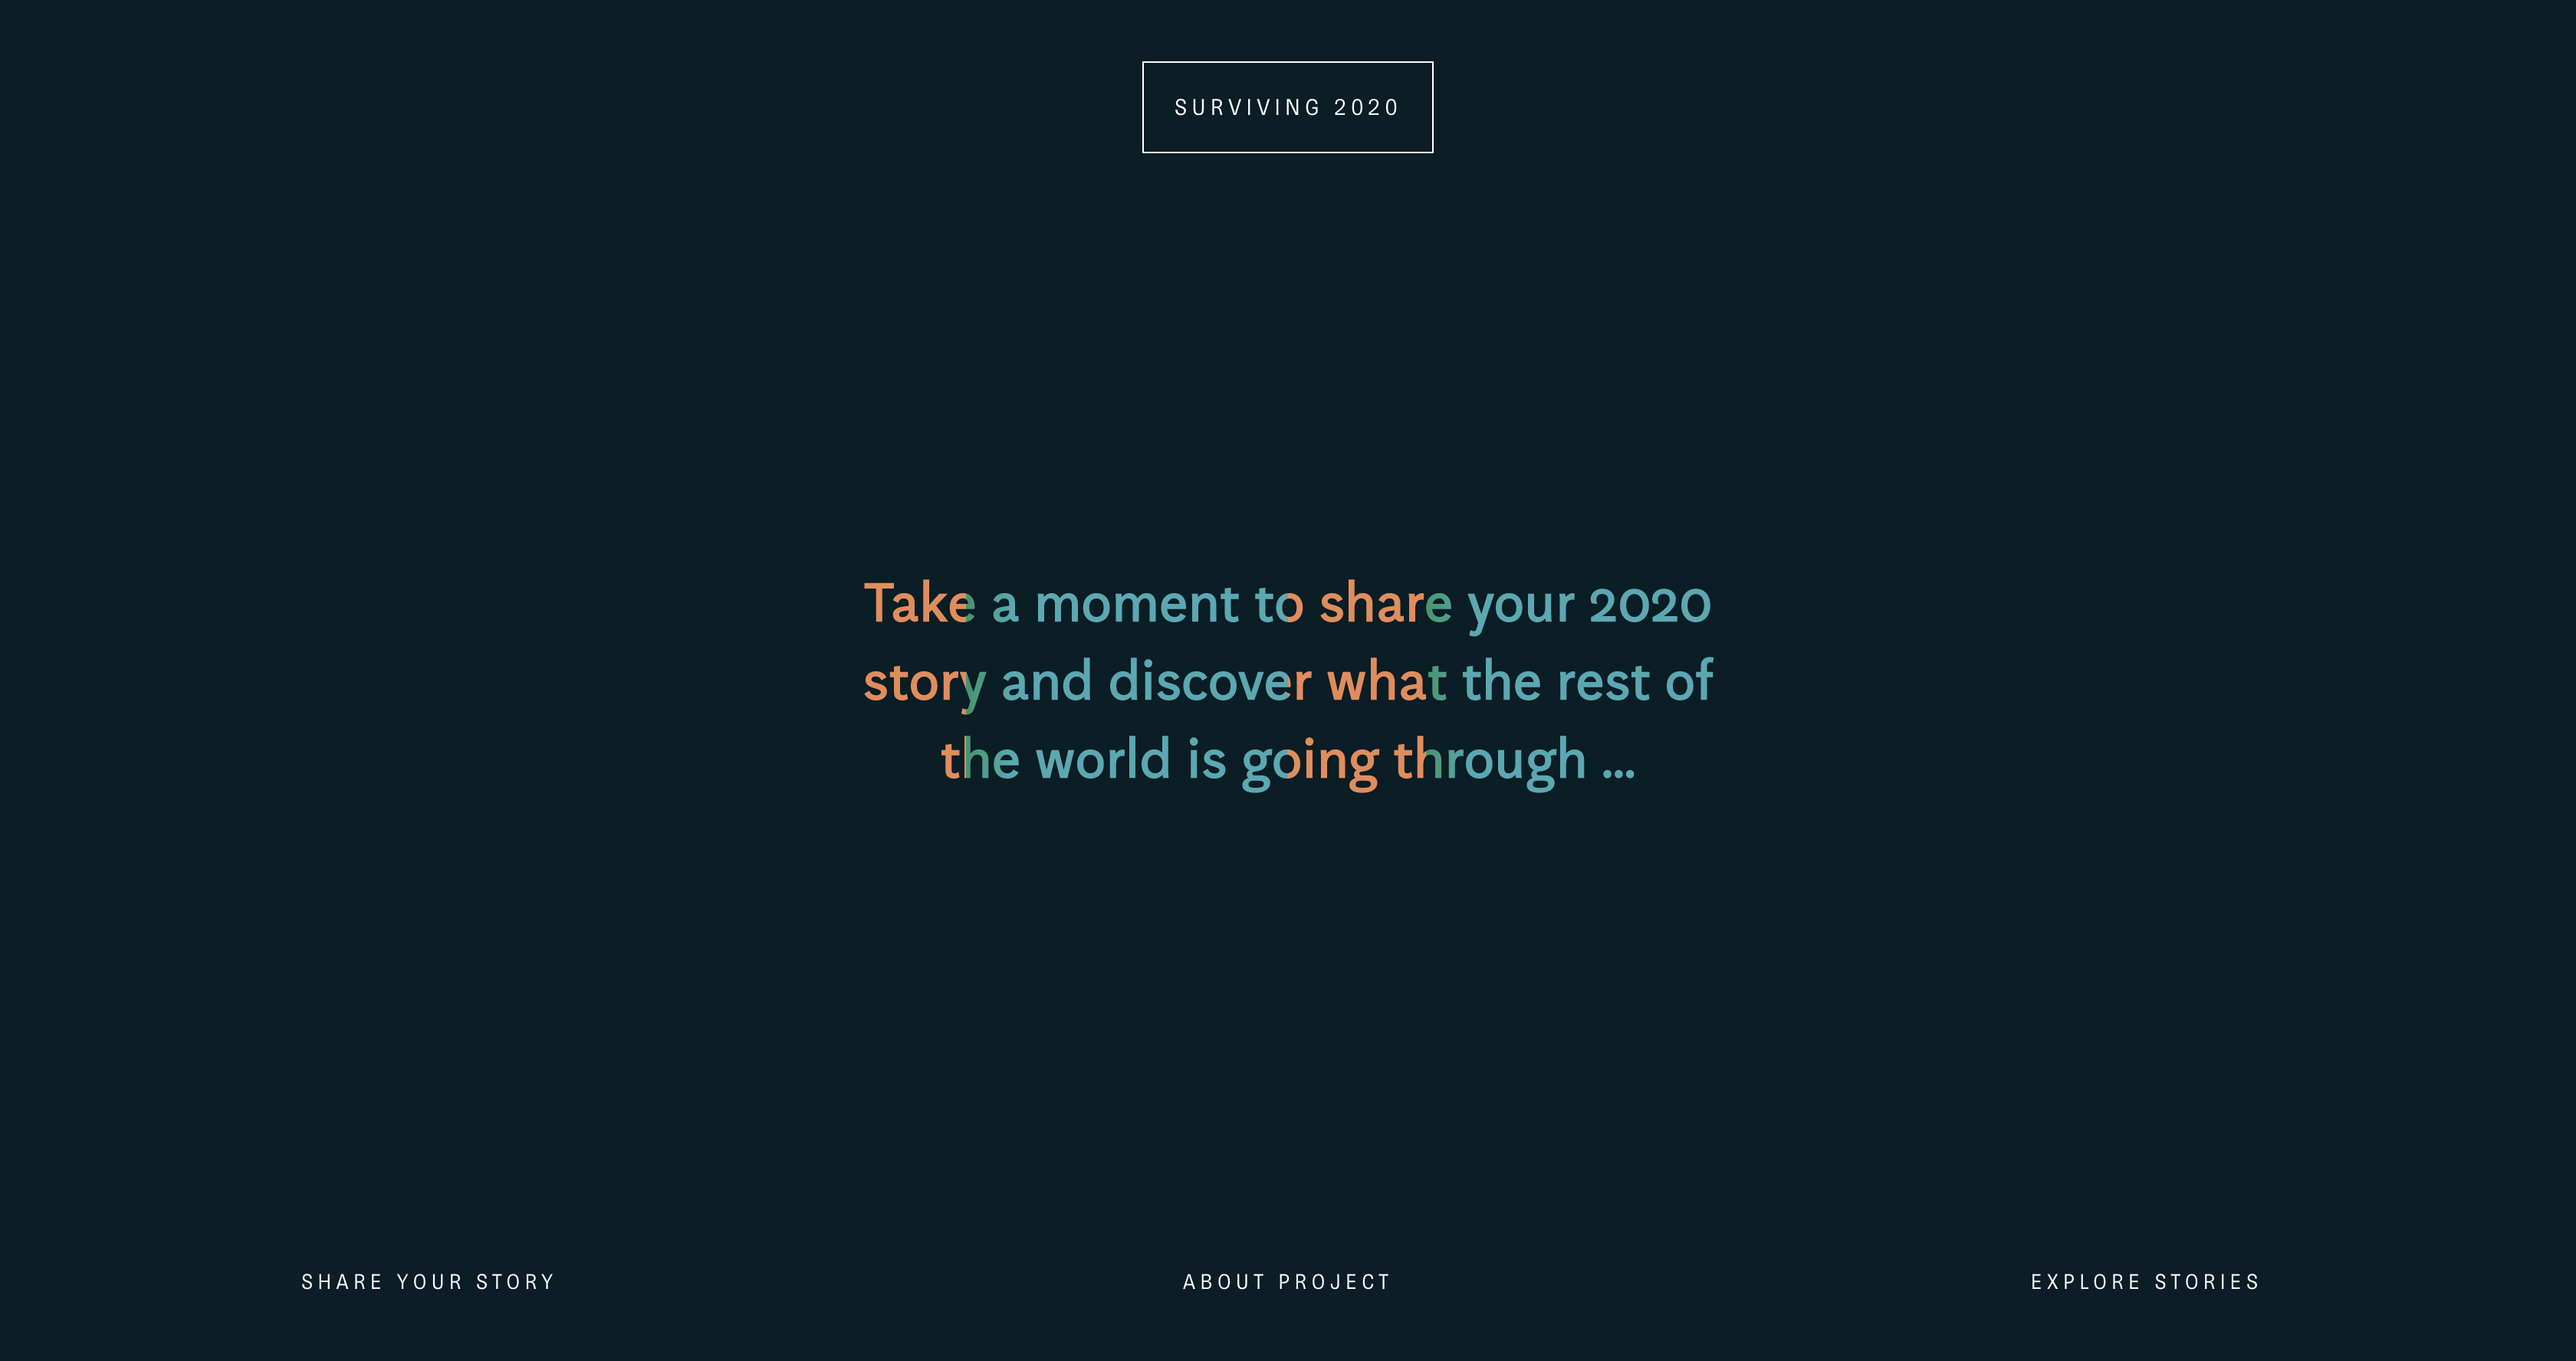
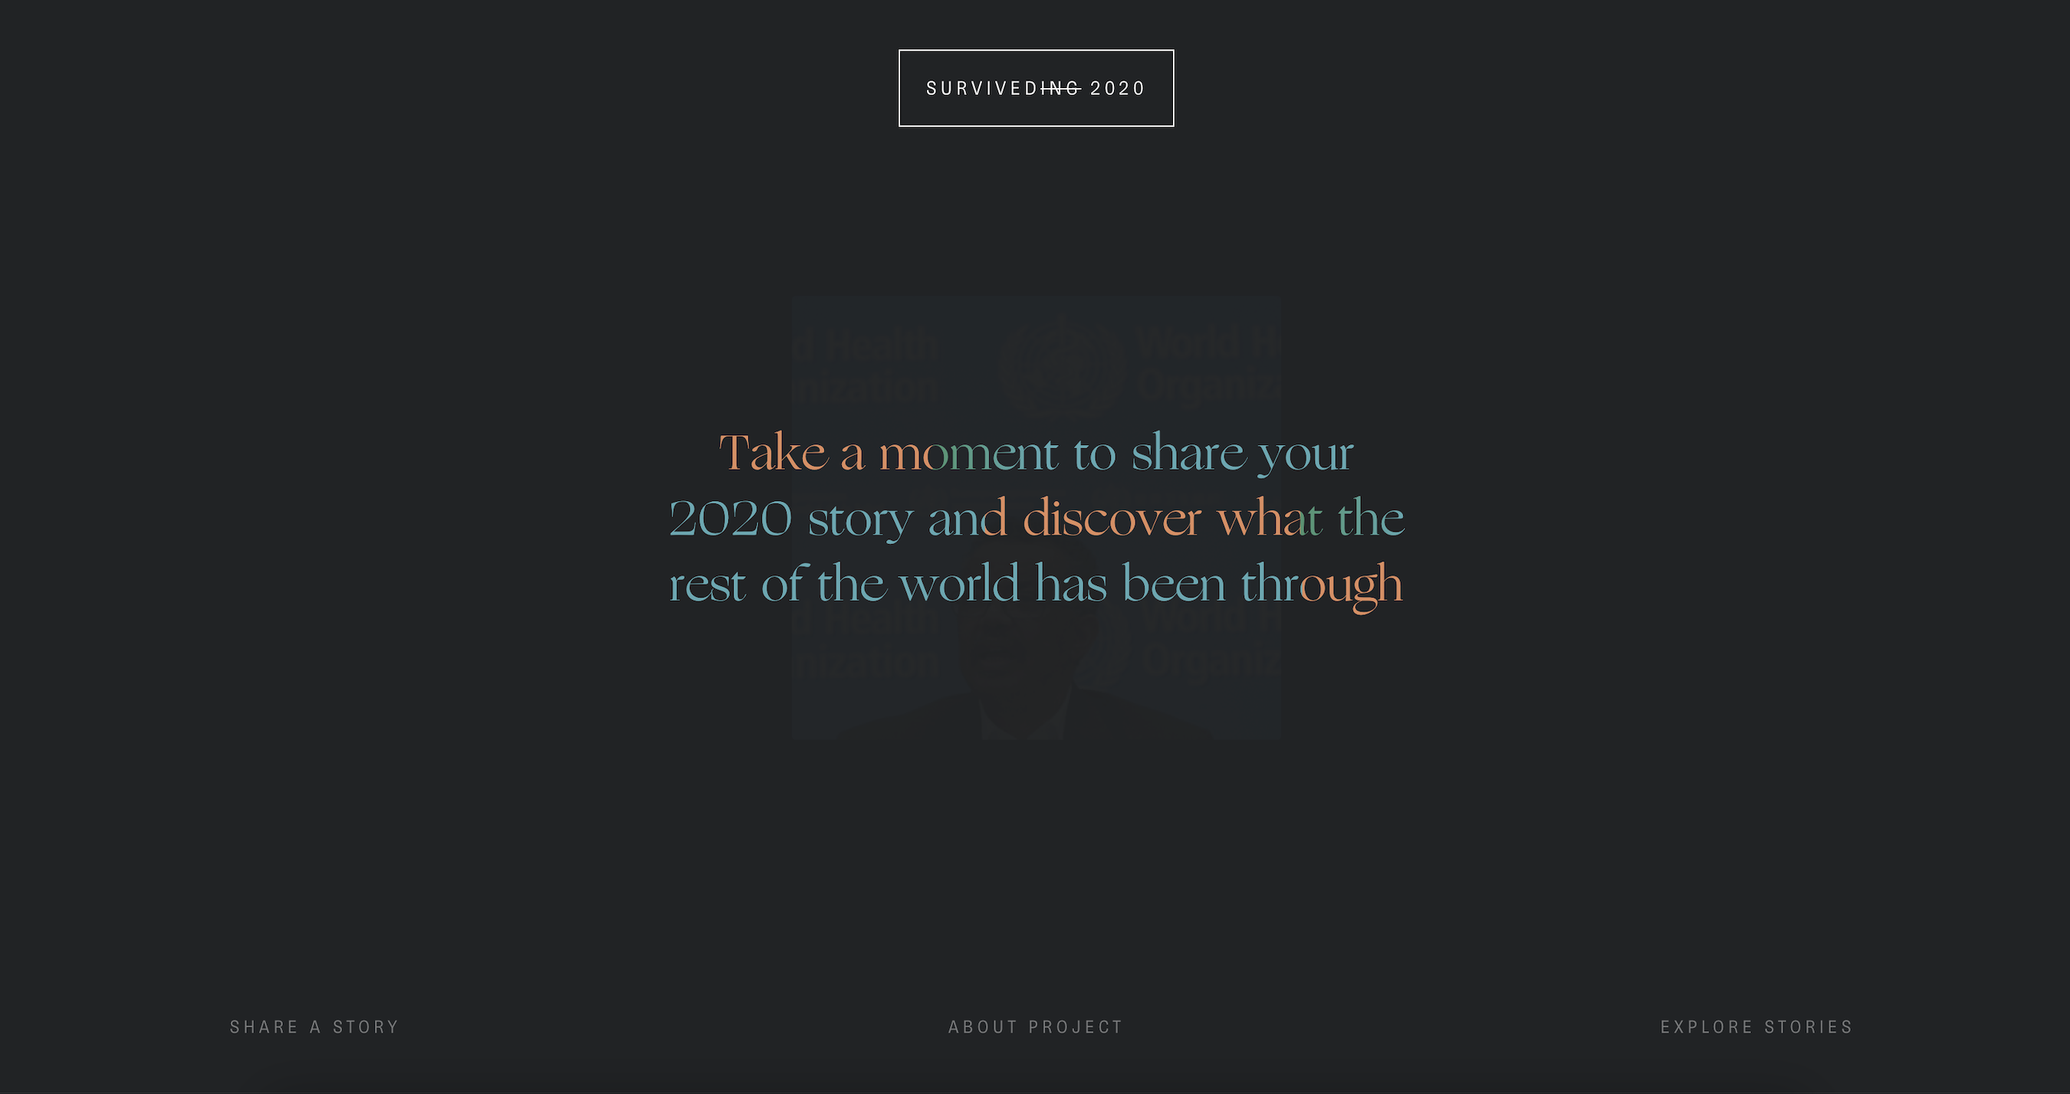
added to work

diff --git a/index.html b/index.html
@@ -59,11 +59,12 @@
                         <div class="interests">
                             <p class="u-sm-label">My Interests outside tech</p>
                             <p>Some of my favourite things are design, travel, food, and the discovery of new music.</p> <br>
-                            <p> In 2017, post-graduation, I decided to work on a project I'm extremely proud of today. I brought the first <a class="img-trigger" href="https://www.instagram.com/beforeidielagos/" target="_blank" rel="noreferrer noopener">Before I Die wall<img src="./img/the-wall.JPG" alt="" class="w-100 img-floating" /></a>                                to Lagos, Nigeria. It made me realise how passionate I am about connecting people and communities.</p>
+                            <p> In 2017, post-graduation, I decided to work on a project I'm extremely proud of today. I brought the first <a class="img-trigger" href="https://www.instagram.com/beforeidielagos/" target="_blank" rel="noreferrer noopener">Before I Die wall<img src="./img/the-wall.JPG" alt="" class="w-100 img-floating" /></a> to Lagos, Nigeria. It made me realise how passionate I am
+                                about connecting people and communities.</p>
                             <br>
                             <p>I also enjoy mentoring young people who work in tech, which I did most recently with
                                 <a class="img-trigger" href="https://codecollabs.com/mentors.html" target="_blank" rel="noreferrer noopener" />
-                                <img src="./img/code-collabs.png" alt="" class="w-100 img-floating">CodeCollabs</a>, where I supported and provided guidance to two young women who were just starting their journeys in the industry.
+                                <img src="./img/code-collabs.png" alt="" class="w-100 img-floating">CodeCollabs</a> and Black Girls In Tech, where I supported and provided guidance to two young women who were just starting their journeys in the industry.
 
                                 <!-- <br><br> I am currently open to new opportunities, while I work to strengthen my JavaScript foundational knowledge, explore the open-source space, and build tech solutions for SMEs. -->
                             </p>
@@ -79,11 +80,11 @@
                             <div class="work-item-inner">
                                 <h3>web app that documents 2020 stories from the public</h3>
                                 <p>At the peak of the COVID-19 pandemic, I came up with the idea of a project I coined 'surviving 2020' - a website that would connect people through stories and shared experiences by inviting them to document significant
-                                    moments of their year 2020. Since its inception, there have been 63 responses from people in different parts of the world.</p>
+                                    moments of their year 2020.</p>
                             </div>
                             <div class="work-thumbnail">
                                 <a href="https://www.our2020stories.com" target="_blank">
-                                    <img src="./img/our2020stories.png" alt="Surviving 2020" class="w-100">
+                                    <img src="./img/surviving-2020.png" alt="Surviving 2020" class="w-100">
                                     <span class="work-url">our2020stories.com</span>
                                 </a>
                             </div>
@@ -91,15 +92,28 @@
                         <hr>
                         <div class="work-item">
                             <div class="work-item-inner">
-                                <h3>eCommerce site for a leading luxury handbag design brand</h3>
-                                <p>FemiHandbags is a leading handbag design and manufacturing company based in Nigeria. As I built the company's official website, their goals were at the forefront of my mind - create a medium to market their products, showcase
-                                    their brand, and ultimately reach new customers.</p>
+                                <h3>e-commerce app for a leading luxury handbag design brand</h3>
+                                <p>FemiHandbags is a leading handbag design and manufacturing company based in Nigeria. Their aims for the website were to create a medium to market their products, showcase their brand, and ultimately reach new customers.</p>
                             </div>
                             <div class="work-thumbnail">
                                 <a href="https://www.femihandbags.com" target="_blank">
-                                    <img src="./img/femihandbags.png" alt="Femihandbags" class="w-100">
+                                    <img src="./img/femihandbags-new.png" alt="Femihandbags" class="w-100">
                                     <span class="anchor-arrow"></span>
                                     <span class="work-url">femihandbags.com</span>
+                                </a>
+                            </div>
+                        </div>
+                        <hr>
+                        <div class="work-item">
+                            <div class="work-item-inner">
+                                <h3>event website for Nigerian Leather industry</h3>
+                                <p>Lagos Leather Fair is an annual event that showcases Nigerian leather designers. The website was designed to deliver event information in the most efficient way.</p>
+                            </div>
+                            <div class="work-thumbnail">
+                                <a href="https://thelagosleatherfair.com/" target="_blank">
+                                    <img src="./img/thelagosleatherfair.png" alt="Lagos Leather Fair" class="w-100">
+                                    <span class="anchor-arrow"></span>
+                                    <span class="work-url">thelagosleatherfair.com</span>
                                 </a>
                             </div>
                         </div>
@@ -121,6 +135,7 @@
     </div>
     <script src="https://code.jquery.com/jquery-3.6.0.min.js" crossorigin="anonymous"></script>
     <script src="./js/index.js"></script>
+
 </body>
 
 </html>
